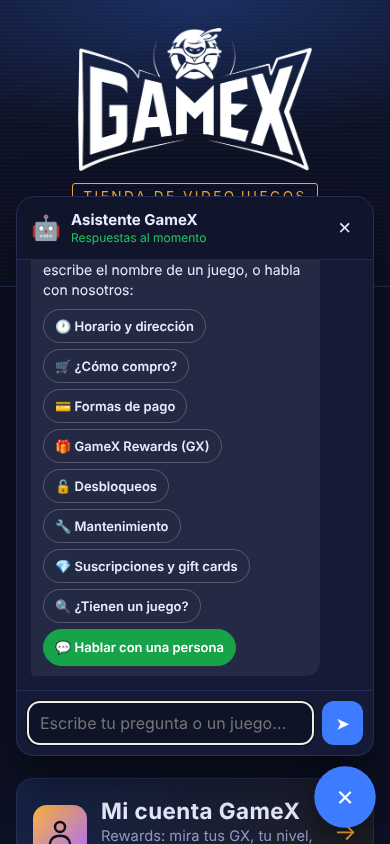
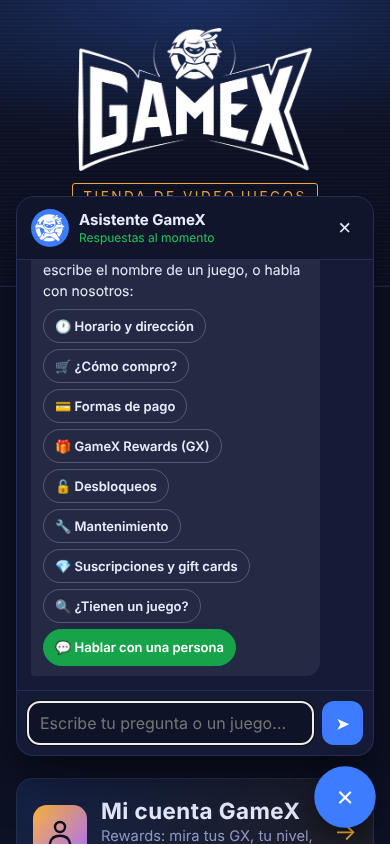
Asistente: icono del ninja de GameX
Claude-Session: https://claude.ai/code/session_01KshRFrebnQZo8NfkJsfwgR

Changed region(s): [[0.0615, 0.2464, 0.5538, 0.3081], [0.1846, 0.3389, 0.3385, 0.3697], [0.1231, 0.3389, 0.1538, 0.3697]]

diff --git a/index.html b/index.html
@@ -1097,7 +1097,7 @@ footer{background:transparent!important}
 </script>
 <script>
 /* Asistente de respuestas rápidas de GameX (sin IA: responde lo que se escribe en el panel) */
-(()=>{const INFO={"nums": [["5353441089", "5344 1089"], ["5353827989", "5382 7989"], ["5352933943", "5293 3943"]], "horario": "Lunes a sábado de 10:00 a. m. a 6:00 p. m.; Domingo cerrado", "dir": "Calle 10 #211 apto 2 e/ 11 y Línea, Vedado, La Habana", "mapa": "https://maps.app.goo.gl/hfsEAhNcSgx5iHi9A"};
[1 lines of base64/hex data omitted]
 const DEF={activo:true,nombre:'Asistente GameX',saludo:'¡Hola! 👋 Soy el asistente de GameX. Toca una pregunta o escríbeme lo que buscas (por ejemplo el nombre de un juego).',preguntas:[
  {p:'🕐 Horario y dirección',claves:'horario, hora, abren, cierran, abierto, cerrado, direccion, donde, ubicacion, local, mapa, domingo',r:'🕐 Estamos abiertos: {horario}.\n📍 {direccion}\n🗺 Cómo llegar: {mapa}'},
  {p:'🛒 ¿Cómo compro?',claves:'comprar, compro, pedido, pedir, carrito, encargar, como hago',r:'Busca lo que quieras en *Catálogos* o *Servicios*, agrégalo al carrito 🛒 y toca *Enviar pedido*. Te llega a nuestro WhatsApp y te respondemos enseguida.'},
@@ -1113,7 +1113,7 @@ const e=s=>String(s??'').replace(/[&<>"']/g,c=>({'&':'&amp;','<':'&lt;','>':'&gt
 const fmt=s=>e(String(s||'').replace(/\{horario\}/g,INFO.horario||'').replace(/\{direccion\}/g,INFO.dir||'').replace(/\{mapa\}/g,INFO.mapa||'')).replace(/\*([^*\n]+)\*/g,'<b>$1</b>').replace(/(https:\/\/[^\s<]+)/g,'<a href="$1" target="_blank" rel="noopener">$1</a>').replace(/\n/g,'<br>');
 const st=document.createElement('style');st.textContent=`
 .gb-b{position:fixed;right:max(16px,env(safe-area-inset-right,0px));bottom:calc(18px + env(safe-area-inset-bottom,0px));z-index:15;width:58px;height:58px;border-radius:50%;border:0;background:var(--accent,#3b82f6);color:#fff;font-size:27px;cursor:pointer;box-shadow:0 8px 24px rgba(0,0,0,.45);display:flex;align-items:center;justify-content:center;transition:transform .15s}
-.gb-b:hover{transform:scale(1.06)}.gb-b:focus-visible{outline:3px solid #fff;outline-offset:3px}
+.gb-b:hover{transform:scale(1.06)}.gb-b img{width:44px;height:auto;display:block;pointer-events:none}.gb-av{width:38px;height:38px;border-radius:50%;background:var(--accent,#3b82f6);display:flex;align-items:center;justify-content:center;flex:none}.gb-av img{width:30px;height:auto}.gb-b:focus-visible{outline:3px solid #fff;outline-offset:3px}
 body:has(#cartbar:not([hidden])) .gb-b{bottom:calc(92px + env(safe-area-inset-bottom,0px))}
 .gb-b .gb-n{position:absolute;top:2px;right:2px;width:14px;height:14px;border-radius:50%;background:#22c55e;border:2px solid #0d1124}
 .gb-w{margin:0;padding:0;position:fixed;right:max(16px,env(safe-area-inset-right,0px));bottom:calc(88px + env(safe-area-inset-bottom,0px));z-index:15;width:min(380px,calc(100vw - 32px));height:min(560px,calc(100dvh - 120px));display:flex;flex-direction:column;background:var(--panel,#141a33);color:var(--fg,#eef2ff);border:1px solid var(--line,#2a3366);border-radius:18px;box-shadow:0 18px 50px rgba(0,0,0,.55);overflow:hidden}
@@ -1137,9 +1137,9 @@ body:has(#cartbar:not([hidden])) .gb-w{bottom:calc(162px + env(safe-area-inset-b
 .gb-j{display:flex;flex-direction:column;gap:4px;margin-top:6px}.gb-j span{font-size:13px;opacity:.85}
 @media(prefers-reduced-motion:no-preference){.gb-a,.gb-q{animation:gbIn .18s ease-out}}@keyframes gbIn{from{opacity:0;transform:translateY(6px)}}`;
 document.head.appendChild(st);
-const b=document.createElement('button');b.className='gb-b';b.type='button';b.setAttribute('aria-label','Abrir asistente de GameX');b.setAttribute('aria-expanded','false');b.innerHTML='💬<span class="gb-n" aria-hidden="true"></span>';
+const b=document.createElement('button');b.className='gb-b';b.type='button';b.setAttribute('aria-label','Abrir asistente de GameX');b.setAttribute('aria-expanded','false');b.innerHTML=`<img src="${NIN}" alt=""><span class="gb-n" aria-hidden="true"></span>`;
 const w=document.createElement('div');w.className='gb-w';w.hidden=true;w.setAttribute('role','dialog');w.setAttribute('aria-label','Asistente de GameX');
-w.innerHTML=`<div class="gb-h"><span style="font-size:24px" aria-hidden="true">🤖</span><b><span class="gb-t"></span><small>Respuestas al momento</small></b><button class="gb-x" type="button" aria-label="Cerrar">×</button></div><div class="gb-m" aria-live="polite"></div><form class="gb-f"><input type="text" placeholder="Escribe tu pregunta o un juego…" aria-label="Tu pregunta" maxlength="120" enterkeyhint="send"><button type="submit" aria-label="Enviar">➤</button></form>`;
+w.innerHTML=`<div class="gb-h"><span class="gb-av" aria-hidden="true"><img src="${NIN}" alt=""></span><b><span class="gb-t"></span><small>Respuestas al momento</small></b><button class="gb-x" type="button" aria-label="Cerrar">×</button></div><div class="gb-m" aria-live="polite"></div><form class="gb-f"><input type="text" placeholder="Escribe tu pregunta o un juego…" aria-label="Tu pregunta" maxlength="120" enterkeyhint="send"><button type="submit" aria-label="Enviar">➤</button></form>`;
 const M=w.querySelector('.gb-m'),I=w.querySelector('input');let empezado=false;
 const baja=()=>{M.scrollTop=M.scrollHeight};
 function di(html,ops){const d=document.createElement('div');d.className='gb-a';d.innerHTML=html+(ops?`<div class="gb-o" style="margin-top:8px">${ops}</div>`:'');M.appendChild(d);baja()}
@@ -1172,7 +1172,7 @@ w.addEventListener('click',ev=>{const x=ev.target.closest('button,a');if(!x||!w.
  if(x.dataset.ver!=null){ev.preventDefault();const v=x.dataset.ver;try{query=v;$('q').value=v}catch(er){}location.hash='todas';setTimeout(()=>{try{$('q').value=v;$('q').dispatchEvent(new Event('input',{bubbles:true}))}catch(er){}},60);if(matchMedia('(max-width:760px)').matches)abrir(false);return}
  if(x.dataset.ir){if(matchMedia('(max-width:760px)').matches)abrir(false)}});
 w.querySelector('form').addEventListener('submit',ev=>{ev.preventDefault();const t=I.value.trim();if(!t)return;I.value='';yo(t);setTimeout(()=>contesta(t),250)});
-function abrir(on){w.hidden=!on;b.setAttribute('aria-expanded',on);b.innerHTML=on?'×':'💬';b.setAttribute('aria-label',on?'Cerrar asistente':'Abrir asistente de GameX');
+function abrir(on){w.hidden=!on;b.setAttribute('aria-expanded',on);b.innerHTML=on?'×':`<img src="${NIN}" alt=""><span class="gb-n" aria-hidden="true"></span>`;b.setAttribute('aria-label',on?'Cerrar asistente':'Abrir asistente de GameX');
  if(on){if(!empezado){empezado=true;w.querySelector('.gb-t').textContent=CFG.nombre||DEF.nombre;di(e(CFG.saludo||DEF.saludo),menu())}if(!matchMedia('(pointer:coarse)').matches)setTimeout(()=>I.focus(),50)}else b.focus()}
 b.addEventListener('click',()=>abrir(w.hidden));
 document.addEventListener('keydown',ev=>{if(ev.key==='Escape'&&!w.hidden)abrir(false)});
@@ -1221,7 +1221,7 @@ if('serviceWorker' in navigator){navigator.serviceWorker.register('sw.js',{updat
 (function(){try{const ios=/iphone|ipad|ipod/i.test(navigator.userAgent)||(navigator.platform==='MacIntel'&&navigator.maxTouchPoints>1);const standalone=navigator.standalone||matchMedia('(display-mode: standalone)').matches;let seen=false;try{seen=localStorage.getItem('gamex-ios-tip')==='1'}catch(e){}
 if(ios&&!standalone&&!seen){const t=document.getElementById('ios-tip');t.hidden=false;document.getElementById('ios-x').onclick=()=>{t.hidden=true;try{localStorage.setItem('gamex-ios-tip','1')}catch(e){}}}}catch(e){}})();
 
-const GXV=277;
+const GXV=279;
 let GXN=0;
 async function gxRefresh(e){const bs=[document.getElementById('refresh'),document.getElementById('upd-b')].filter(Boolean),b=e&&e.currentTarget||bs[0];
   if(b&&b.classList.contains('cargando'))return;

diff --git a/app/catalogo.html b/app/catalogo.html
@@ -1035,7 +1035,7 @@ footer{background:transparent!important}
 </script>
 <script>
 /* Asistente de respuestas rápidas de GameX (sin IA: responde lo que se escribe en el panel) */
-(()=>{const INFO={"nums": [["5353441089", "5344 1089"], ["5353827989", "5382 7989"], ["5352933943", "5293 3943"]], "horario": "Lunes a sábado de 10:00 a. m. a 6:00 p. m.; Domingo cerrado", "dir": "Calle 10 #211 apto 2 e/ 11 y Línea, Vedado, La Habana", "mapa": "https://maps.app.goo.gl/hfsEAhNcSgx5iHi9A"};
[1 lines of base64/hex data omitted]
 const DEF={activo:true,nombre:'Asistente GameX',saludo:'¡Hola! 👋 Soy el asistente de GameX. Toca una pregunta o escríbeme lo que buscas (por ejemplo el nombre de un juego).',preguntas:[
  {p:'🕐 Horario y dirección',claves:'horario, hora, abren, cierran, abierto, cerrado, direccion, donde, ubicacion, local, mapa, domingo',r:'🕐 Estamos abiertos: {horario}.\n📍 {direccion}\n🗺 Cómo llegar: {mapa}'},
  {p:'🛒 ¿Cómo compro?',claves:'comprar, compro, pedido, pedir, carrito, encargar, como hago',r:'Busca lo que quieras en *Catálogos* o *Servicios*, agrégalo al carrito 🛒 y toca *Enviar pedido*. Te llega a nuestro WhatsApp y te respondemos enseguida.'},
@@ -1051,7 +1051,7 @@ const e=s=>String(s??'').replace(/[&<>"']/g,c=>({'&':'&amp;','<':'&lt;','>':'&gt
 const fmt=s=>e(String(s||'').replace(/\{horario\}/g,INFO.horario||'').replace(/\{direccion\}/g,INFO.dir||'').replace(/\{mapa\}/g,INFO.mapa||'')).replace(/\*([^*\n]+)\*/g,'<b>$1</b>').replace(/(https:\/\/[^\s<]+)/g,'<a href="$1" target="_blank" rel="noopener">$1</a>').replace(/\n/g,'<br>');
 const st=document.createElement('style');st.textContent=`
 .gb-b{position:fixed;right:max(16px,env(safe-area-inset-right,0px));bottom:calc(18px + env(safe-area-inset-bottom,0px));z-index:15;width:58px;height:58px;border-radius:50%;border:0;background:var(--accent,#3b82f6);color:#fff;font-size:27px;cursor:pointer;box-shadow:0 8px 24px rgba(0,0,0,.45);display:flex;align-items:center;justify-content:center;transition:transform .15s}
-.gb-b:hover{transform:scale(1.06)}.gb-b:focus-visible{outline:3px solid #fff;outline-offset:3px}
+.gb-b:hover{transform:scale(1.06)}.gb-b img{width:44px;height:auto;display:block;pointer-events:none}.gb-av{width:38px;height:38px;border-radius:50%;background:var(--accent,#3b82f6);display:flex;align-items:center;justify-content:center;flex:none}.gb-av img{width:30px;height:auto}.gb-b:focus-visible{outline:3px solid #fff;outline-offset:3px}
 body:has(#cartbar:not([hidden])) .gb-b{bottom:calc(92px + env(safe-area-inset-bottom,0px))}
 .gb-b .gb-n{position:absolute;top:2px;right:2px;width:14px;height:14px;border-radius:50%;background:#22c55e;border:2px solid #0d1124}
 .gb-w{margin:0;padding:0;position:fixed;right:max(16px,env(safe-area-inset-right,0px));bottom:calc(88px + env(safe-area-inset-bottom,0px));z-index:15;width:min(380px,calc(100vw - 32px));height:min(560px,calc(100dvh - 120px));display:flex;flex-direction:column;background:var(--panel,#141a33);color:var(--fg,#eef2ff);border:1px solid var(--line,#2a3366);border-radius:18px;box-shadow:0 18px 50px rgba(0,0,0,.55);overflow:hidden}
@@ -1075,9 +1075,9 @@ body:has(#cartbar:not([hidden])) .gb-w{bottom:calc(162px + env(safe-area-inset-b
 .gb-j{display:flex;flex-direction:column;gap:4px;margin-top:6px}.gb-j span{font-size:13px;opacity:.85}
 @media(prefers-reduced-motion:no-preference){.gb-a,.gb-q{animation:gbIn .18s ease-out}}@keyframes gbIn{from{opacity:0;transform:translateY(6px)}}`;
 document.head.appendChild(st);
-const b=document.createElement('button');b.className='gb-b';b.type='button';b.setAttribute('aria-label','Abrir asistente de GameX');b.setAttribute('aria-expanded','false');b.innerHTML='💬<span class="gb-n" aria-hidden="true"></span>';
+const b=document.createElement('button');b.className='gb-b';b.type='button';b.setAttribute('aria-label','Abrir asistente de GameX');b.setAttribute('aria-expanded','false');b.innerHTML=`<img src="${NIN}" alt=""><span class="gb-n" aria-hidden="true"></span>`;
 const w=document.createElement('div');w.className='gb-w';w.hidden=true;w.setAttribute('role','dialog');w.setAttribute('aria-label','Asistente de GameX');
-w.innerHTML=`<div class="gb-h"><span style="font-size:24px" aria-hidden="true">🤖</span><b><span class="gb-t"></span><small>Respuestas al momento</small></b><button class="gb-x" type="button" aria-label="Cerrar">×</button></div><div class="gb-m" aria-live="polite"></div><form class="gb-f"><input type="text" placeholder="Escribe tu pregunta o un juego…" aria-label="Tu pregunta" maxlength="120" enterkeyhint="send"><button type="submit" aria-label="Enviar">➤</button></form>`;
+w.innerHTML=`<div class="gb-h"><span class="gb-av" aria-hidden="true"><img src="${NIN}" alt=""></span><b><span class="gb-t"></span><small>Respuestas al momento</small></b><button class="gb-x" type="button" aria-label="Cerrar">×</button></div><div class="gb-m" aria-live="polite"></div><form class="gb-f"><input type="text" placeholder="Escribe tu pregunta o un juego…" aria-label="Tu pregunta" maxlength="120" enterkeyhint="send"><button type="submit" aria-label="Enviar">➤</button></form>`;
 const M=w.querySelector('.gb-m'),I=w.querySelector('input');let empezado=false;
 const baja=()=>{M.scrollTop=M.scrollHeight};
 function di(html,ops){const d=document.createElement('div');d.className='gb-a';d.innerHTML=html+(ops?`<div class="gb-o" style="margin-top:8px">${ops}</div>`:'');M.appendChild(d);baja()}
@@ -1110,7 +1110,7 @@ w.addEventListener('click',ev=>{const x=ev.target.closest('button,a');if(!x||!w.
  if(x.dataset.ver!=null){ev.preventDefault();const v=x.dataset.ver;try{query=v;$('q').value=v}catch(er){}location.hash='todas';setTimeout(()=>{try{$('q').value=v;$('q').dispatchEvent(new Event('input',{bubbles:true}))}catch(er){}},60);if(matchMedia('(max-width:760px)').matches)abrir(false);return}
  if(x.dataset.ir){if(matchMedia('(max-width:760px)').matches)abrir(false)}});
 w.querySelector('form').addEventListener('submit',ev=>{ev.preventDefault();const t=I.value.trim();if(!t)return;I.value='';yo(t);setTimeout(()=>contesta(t),250)});
-function abrir(on){w.hidden=!on;b.setAttribute('aria-expanded',on);b.innerHTML=on?'×':'💬';b.setAttribute('aria-label',on?'Cerrar asistente':'Abrir asistente de GameX');
+function abrir(on){w.hidden=!on;b.setAttribute('aria-expanded',on);b.innerHTML=on?'×':`<img src="${NIN}" alt=""><span class="gb-n" aria-hidden="true"></span>`;b.setAttribute('aria-label',on?'Cerrar asistente':'Abrir asistente de GameX');
  if(on){if(!empezado){empezado=true;w.querySelector('.gb-t').textContent=CFG.nombre||DEF.nombre;di(e(CFG.saludo||DEF.saludo),menu())}if(!matchMedia('(pointer:coarse)').matches)setTimeout(()=>I.focus(),50)}else b.focus()}
 b.addEventListener('click',()=>abrir(w.hidden));
 document.addEventListener('keydown',ev=>{if(ev.key==='Escape'&&!w.hidden)abrir(false)});

diff --git a/tools/salida/catalogo-claude.html b/tools/salida/catalogo-claude.html
@@ -1040,7 +1040,7 @@ footer{background:transparent!important}
 </script>
 <script>
 /* Asistente de respuestas rápidas de GameX (sin IA: responde lo que se escribe en el panel) */
-(()=>{const INFO={"nums": [["5353441089", "5344 1089"], ["5353827989", "5382 7989"], ["5352933943", "5293 3943"]], "horario": "Lunes a sábado de 10:00 a. m. a 6:00 p. m.; Domingo cerrado", "dir": "Calle 10 #211 apto 2 e/ 11 y Línea, Vedado, La Habana", "mapa": "https://maps.app.goo.gl/hfsEAhNcSgx5iHi9A"};
[1 lines of base64/hex data omitted]
 const DEF={activo:true,nombre:'Asistente GameX',saludo:'¡Hola! 👋 Soy el asistente de GameX. Toca una pregunta o escríbeme lo que buscas (por ejemplo el nombre de un juego).',preguntas:[
  {p:'🕐 Horario y dirección',claves:'horario, hora, abren, cierran, abierto, cerrado, direccion, donde, ubicacion, local, mapa, domingo',r:'🕐 Estamos abiertos: {horario}.\n📍 {direccion}\n🗺 Cómo llegar: {mapa}'},
  {p:'🛒 ¿Cómo compro?',claves:'comprar, compro, pedido, pedir, carrito, encargar, como hago',r:'Busca lo que quieras en *Catálogos* o *Servicios*, agrégalo al carrito 🛒 y toca *Enviar pedido*. Te llega a nuestro WhatsApp y te respondemos enseguida.'},
@@ -1056,7 +1056,7 @@ const e=s=>String(s??'').replace(/[&<>"']/g,c=>({'&':'&amp;','<':'&lt;','>':'&gt
 const fmt=s=>e(String(s||'').replace(/\{horario\}/g,INFO.horario||'').replace(/\{direccion\}/g,INFO.dir||'').replace(/\{mapa\}/g,INFO.mapa||'')).replace(/\*([^*\n]+)\*/g,'<b>$1</b>').replace(/(https:\/\/[^\s<]+)/g,'<a href="$1" target="_blank" rel="noopener">$1</a>').replace(/\n/g,'<br>');
 const st=document.createElement('style');st.textContent=`
 .gb-b{position:fixed;right:max(16px,env(safe-area-inset-right,0px));bottom:calc(18px + env(safe-area-inset-bottom,0px));z-index:15;width:58px;height:58px;border-radius:50%;border:0;background:var(--accent,#3b82f6);color:#fff;font-size:27px;cursor:pointer;box-shadow:0 8px 24px rgba(0,0,0,.45);display:flex;align-items:center;justify-content:center;transition:transform .15s}
-.gb-b:hover{transform:scale(1.06)}.gb-b:focus-visible{outline:3px solid #fff;outline-offset:3px}
+.gb-b:hover{transform:scale(1.06)}.gb-b img{width:44px;height:auto;display:block;pointer-events:none}.gb-av{width:38px;height:38px;border-radius:50%;background:var(--accent,#3b82f6);display:flex;align-items:center;justify-content:center;flex:none}.gb-av img{width:30px;height:auto}.gb-b:focus-visible{outline:3px solid #fff;outline-offset:3px}
 body:has(#cartbar:not([hidden])) .gb-b{bottom:calc(92px + env(safe-area-inset-bottom,0px))}
 .gb-b .gb-n{position:absolute;top:2px;right:2px;width:14px;height:14px;border-radius:50%;background:#22c55e;border:2px solid #0d1124}
 .gb-w{margin:0;padding:0;position:fixed;right:max(16px,env(safe-area-inset-right,0px));bottom:calc(88px + env(safe-area-inset-bottom,0px));z-index:15;width:min(380px,calc(100vw - 32px));height:min(560px,calc(100dvh - 120px));display:flex;flex-direction:column;background:var(--panel,#141a33);color:var(--fg,#eef2ff);border:1px solid var(--line,#2a3366);border-radius:18px;box-shadow:0 18px 50px rgba(0,0,0,.55);overflow:hidden}
@@ -1080,9 +1080,9 @@ body:has(#cartbar:not([hidden])) .gb-w{bottom:calc(162px + env(safe-area-inset-b
 .gb-j{display:flex;flex-direction:column;gap:4px;margin-top:6px}.gb-j span{font-size:13px;opacity:.85}
 @media(prefers-reduced-motion:no-preference){.gb-a,.gb-q{animation:gbIn .18s ease-out}}@keyframes gbIn{from{opacity:0;transform:translateY(6px)}}`;
 document.head.appendChild(st);
-const b=document.createElement('button');b.className='gb-b';b.type='button';b.setAttribute('aria-label','Abrir asistente de GameX');b.setAttribute('aria-expanded','false');b.innerHTML='💬<span class="gb-n" aria-hidden="true"></span>';
+const b=document.createElement('button');b.className='gb-b';b.type='button';b.setAttribute('aria-label','Abrir asistente de GameX');b.setAttribute('aria-expanded','false');b.innerHTML=`<img src="${NIN}" alt=""><span class="gb-n" aria-hidden="true"></span>`;
 const w=document.createElement('div');w.className='gb-w';w.hidden=true;w.setAttribute('role','dialog');w.setAttribute('aria-label','Asistente de GameX');
-w.innerHTML=`<div class="gb-h"><span style="font-size:24px" aria-hidden="true">🤖</span><b><span class="gb-t"></span><small>Respuestas al momento</small></b><button class="gb-x" type="button" aria-label="Cerrar">×</button></div><div class="gb-m" aria-live="polite"></div><form class="gb-f"><input type="text" placeholder="Escribe tu pregunta o un juego…" aria-label="Tu pregunta" maxlength="120" enterkeyhint="send"><button type="submit" aria-label="Enviar">➤</button></form>`;
+w.innerHTML=`<div class="gb-h"><span class="gb-av" aria-hidden="true"><img src="${NIN}" alt=""></span><b><span class="gb-t"></span><small>Respuestas al momento</small></b><button class="gb-x" type="button" aria-label="Cerrar">×</button></div><div class="gb-m" aria-live="polite"></div><form class="gb-f"><input type="text" placeholder="Escribe tu pregunta o un juego…" aria-label="Tu pregunta" maxlength="120" enterkeyhint="send"><button type="submit" aria-label="Enviar">➤</button></form>`;
 const M=w.querySelector('.gb-m'),I=w.querySelector('input');let empezado=false;
 const baja=()=>{M.scrollTop=M.scrollHeight};
 function di(html,ops){const d=document.createElement('div');d.className='gb-a';d.innerHTML=html+(ops?`<div class="gb-o" style="margin-top:8px">${ops}</div>`:'');M.appendChild(d);baja()}
@@ -1115,7 +1115,7 @@ w.addEventListener('click',ev=>{const x=ev.target.closest('button,a');if(!x||!w.
  if(x.dataset.ver!=null){ev.preventDefault();const v=x.dataset.ver;try{query=v;$('q').value=v}catch(er){}location.hash='todas';setTimeout(()=>{try{$('q').value=v;$('q').dispatchEvent(new Event('input',{bubbles:true}))}catch(er){}},60);if(matchMedia('(max-width:760px)').matches)abrir(false);return}
  if(x.dataset.ir){if(matchMedia('(max-width:760px)').matches)abrir(false)}});
 w.querySelector('form').addEventListener('submit',ev=>{ev.preventDefault();const t=I.value.trim();if(!t)return;I.value='';yo(t);setTimeout(()=>contesta(t),250)});
-function abrir(on){w.hidden=!on;b.setAttribute('aria-expanded',on);b.innerHTML=on?'×':'💬';b.setAttribute('aria-label',on?'Cerrar asistente':'Abrir asistente de GameX');
+function abrir(on){w.hidden=!on;b.setAttribute('aria-expanded',on);b.innerHTML=on?'×':`<img src="${NIN}" alt=""><span class="gb-n" aria-hidden="true"></span>`;b.setAttribute('aria-label',on?'Cerrar asistente':'Abrir asistente de GameX');
  if(on){if(!empezado){empezado=true;w.querySelector('.gb-t').textContent=CFG.nombre||DEF.nombre;di(e(CFG.saludo||DEF.saludo),menu())}if(!matchMedia('(pointer:coarse)').matches)setTimeout(()=>I.focus(),50)}else b.focus()}
 b.addEventListener('click',()=>abrir(w.hidden));
 document.addEventListener('keydown',ev=>{if(ev.key==='Escape'&&!w.hidden)abrir(false)});

diff --git a/tools/plantilla/script.html b/tools/plantilla/script.html
@@ -506,7 +506,7 @@ footer{background:transparent!important}
 </script>
 <script>
 /* Asistente de respuestas rápidas de GameX (sin IA: responde lo que se escribe en el panel) */
-(()=>{const INFO=__BOTINFO__;
[1 lines of base64/hex data omitted]
 const DEF={activo:true,nombre:'Asistente GameX',saludo:'¡Hola! 👋 Soy el asistente de GameX. Toca una pregunta o escríbeme lo que buscas (por ejemplo el nombre de un juego).',preguntas:[
  {p:'🕐 Horario y dirección',claves:'horario, hora, abren, cierran, abierto, cerrado, direccion, donde, ubicacion, local, mapa, domingo',r:'🕐 Estamos abiertos: {horario}.\n📍 {direccion}\n🗺 Cómo llegar: {mapa}'},
  {p:'🛒 ¿Cómo compro?',claves:'comprar, compro, pedido, pedir, carrito, encargar, como hago',r:'Busca lo que quieras en *Catálogos* o *Servicios*, agrégalo al carrito 🛒 y toca *Enviar pedido*. Te llega a nuestro WhatsApp y te respondemos enseguida.'},
@@ -522,7 +522,7 @@ const e=s=>String(s??'').replace(/[&<>"']/g,c=>({'&':'&amp;','<':'&lt;','>':'&gt
 const fmt=s=>e(String(s||'').replace(/\{horario\}/g,INFO.horario||'').replace(/\{direccion\}/g,INFO.dir||'').replace(/\{mapa\}/g,INFO.mapa||'')).replace(/\*([^*\n]+)\*/g,'<b>$1</b>').replace(/(https:\/\/[^\s<]+)/g,'<a href="$1" target="_blank" rel="noopener">$1</a>').replace(/\n/g,'<br>');
 const st=document.createElement('style');st.textContent=`
 .gb-b{position:fixed;right:max(16px,env(safe-area-inset-right,0px));bottom:calc(18px + env(safe-area-inset-bottom,0px));z-index:15;width:58px;height:58px;border-radius:50%;border:0;background:var(--accent,#3b82f6);color:#fff;font-size:27px;cursor:pointer;box-shadow:0 8px 24px rgba(0,0,0,.45);display:flex;align-items:center;justify-content:center;transition:transform .15s}
-.gb-b:hover{transform:scale(1.06)}.gb-b:focus-visible{outline:3px solid #fff;outline-offset:3px}
+.gb-b:hover{transform:scale(1.06)}.gb-b img{width:44px;height:auto;display:block;pointer-events:none}.gb-av{width:38px;height:38px;border-radius:50%;background:var(--accent,#3b82f6);display:flex;align-items:center;justify-content:center;flex:none}.gb-av img{width:30px;height:auto}.gb-b:focus-visible{outline:3px solid #fff;outline-offset:3px}
 body:has(#cartbar:not([hidden])) .gb-b{bottom:calc(92px + env(safe-area-inset-bottom,0px))}
 .gb-b .gb-n{position:absolute;top:2px;right:2px;width:14px;height:14px;border-radius:50%;background:#22c55e;border:2px solid #0d1124}
 .gb-w{margin:0;padding:0;position:fixed;right:max(16px,env(safe-area-inset-right,0px));bottom:calc(88px + env(safe-area-inset-bottom,0px));z-index:15;width:min(380px,calc(100vw - 32px));height:min(560px,calc(100dvh - 120px));display:flex;flex-direction:column;background:var(--panel,#141a33);color:var(--fg,#eef2ff);border:1px solid var(--line,#2a3366);border-radius:18px;box-shadow:0 18px 50px rgba(0,0,0,.55);overflow:hidden}
@@ -546,9 +546,9 @@ body:has(#cartbar:not([hidden])) .gb-w{bottom:calc(162px + env(safe-area-inset-b
 .gb-j{display:flex;flex-direction:column;gap:4px;margin-top:6px}.gb-j span{font-size:13px;opacity:.85}
 @media(prefers-reduced-motion:no-preference){.gb-a,.gb-q{animation:gbIn .18s ease-out}}@keyframes gbIn{from{opacity:0;transform:translateY(6px)}}`;
 document.head.appendChild(st);
-const b=document.createElement('button');b.className='gb-b';b.type='button';b.setAttribute('aria-label','Abrir asistente de GameX');b.setAttribute('aria-expanded','false');b.innerHTML='💬<span class="gb-n" aria-hidden="true"></span>';
+const b=document.createElement('button');b.className='gb-b';b.type='button';b.setAttribute('aria-label','Abrir asistente de GameX');b.setAttribute('aria-expanded','false');b.innerHTML=`<img src="${NIN}" alt=""><span class="gb-n" aria-hidden="true"></span>`;
 const w=document.createElement('div');w.className='gb-w';w.hidden=true;w.setAttribute('role','dialog');w.setAttribute('aria-label','Asistente de GameX');
-w.innerHTML=`<div class="gb-h"><span style="font-size:24px" aria-hidden="true">🤖</span><b><span class="gb-t"></span><small>Respuestas al momento</small></b><button class="gb-x" type="button" aria-label="Cerrar">×</button></div><div class="gb-m" aria-live="polite"></div><form class="gb-f"><input type="text" placeholder="Escribe tu pregunta o un juego…" aria-label="Tu pregunta" maxlength="120" enterkeyhint="send"><button type="submit" aria-label="Enviar">➤</button></form>`;
+w.innerHTML=`<div class="gb-h"><span class="gb-av" aria-hidden="true"><img src="${NIN}" alt=""></span><b><span class="gb-t"></span><small>Respuestas al momento</small></b><button class="gb-x" type="button" aria-label="Cerrar">×</button></div><div class="gb-m" aria-live="polite"></div><form class="gb-f"><input type="text" placeholder="Escribe tu pregunta o un juego…" aria-label="Tu pregunta" maxlength="120" enterkeyhint="send"><button type="submit" aria-label="Enviar">➤</button></form>`;
 const M=w.querySelector('.gb-m'),I=w.querySelector('input');let empezado=false;
 const baja=()=>{M.scrollTop=M.scrollHeight};
 function di(html,ops){const d=document.createElement('div');d.className='gb-a';d.innerHTML=html+(ops?`<div class="gb-o" style="margin-top:8px">${ops}</div>`:'');M.appendChild(d);baja()}
@@ -581,7 +581,7 @@ w.addEventListener('click',ev=>{const x=ev.target.closest('button,a');if(!x||!w.
  if(x.dataset.ver!=null){ev.preventDefault();const v=x.dataset.ver;try{query=v;$('q').value=v}catch(er){}location.hash='todas';setTimeout(()=>{try{$('q').value=v;$('q').dispatchEvent(new Event('input',{bubbles:true}))}catch(er){}},60);if(matchMedia('(max-width:760px)').matches)abrir(false);return}
  if(x.dataset.ir){if(matchMedia('(max-width:760px)').matches)abrir(false)}});
 w.querySelector('form').addEventListener('submit',ev=>{ev.preventDefault();const t=I.value.trim();if(!t)return;I.value='';yo(t);setTimeout(()=>contesta(t),250)});
-function abrir(on){w.hidden=!on;b.setAttribute('aria-expanded',on);b.innerHTML=on?'×':'💬';b.setAttribute('aria-label',on?'Cerrar asistente':'Abrir asistente de GameX');
+function abrir(on){w.hidden=!on;b.setAttribute('aria-expanded',on);b.innerHTML=on?'×':`<img src="${NIN}" alt=""><span class="gb-n" aria-hidden="true"></span>`;b.setAttribute('aria-label',on?'Cerrar asistente':'Abrir asistente de GameX');
  if(on){if(!empezado){empezado=true;w.querySelector('.gb-t').textContent=CFG.nombre||DEF.nombre;di(e(CFG.saludo||DEF.saludo),menu())}if(!matchMedia('(pointer:coarse)').matches)setTimeout(()=>I.focus(),50)}else b.focus()}
 b.addEventListener('click',()=>abrir(w.hidden));
 document.addEventListener('keydown',ev=>{if(ev.key==='Escape'&&!w.hidden)abrir(false)});
